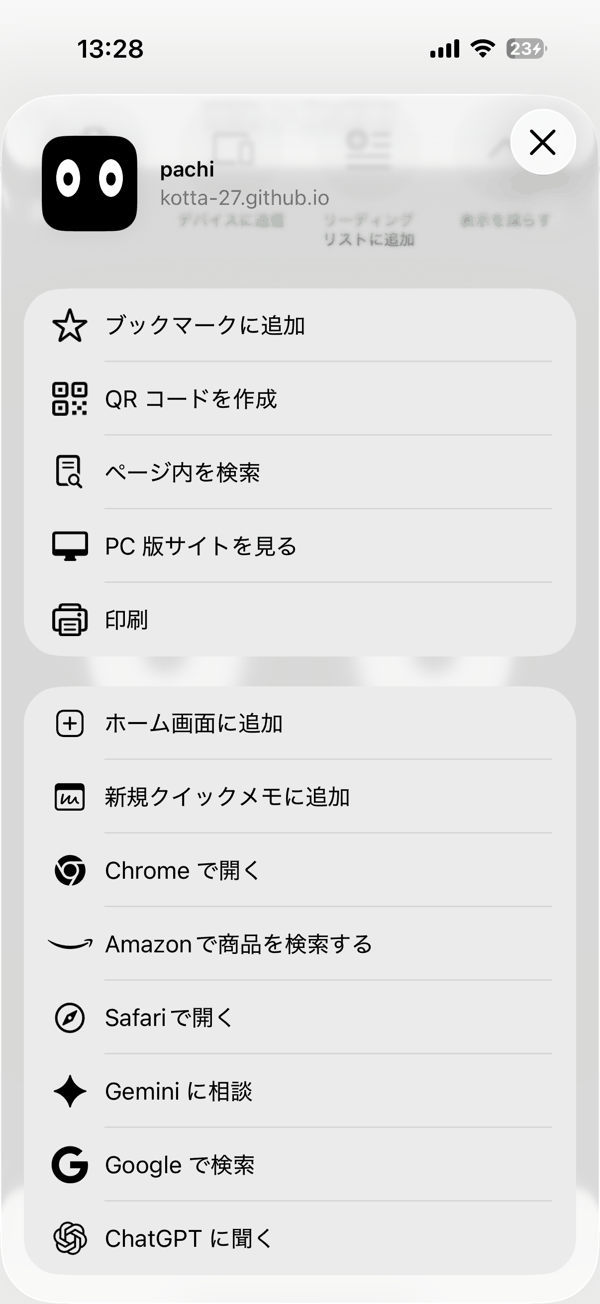
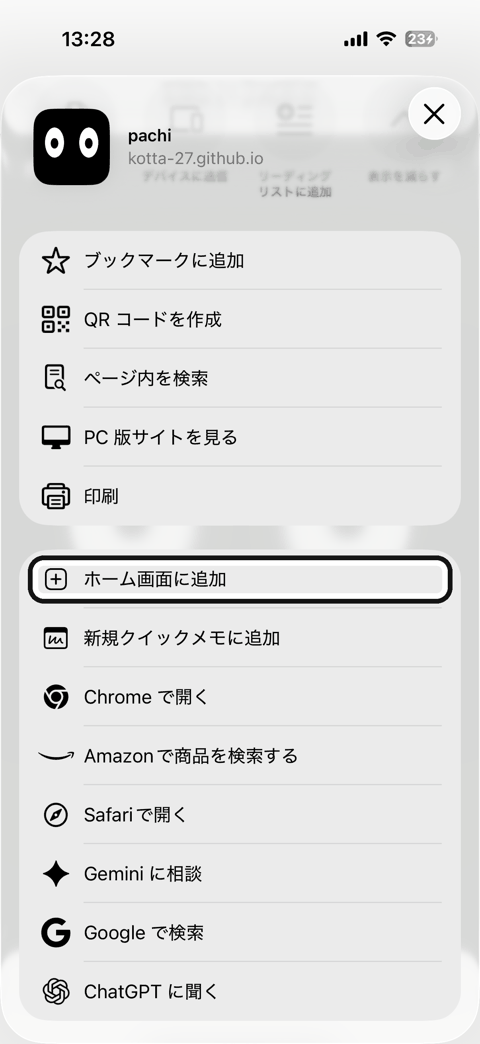
LP: ホーム画面に追加のスクショを小さく、押す箇所にマーカー

diff --git a/public/lp/index.html b/public/lp/index.html
@@ -109,11 +109,12 @@ nav ul a:hover { color: var(--fg); }
 .step p { margin: 0; color: var(--dim); font-size: 15px; }
 
 /* install */
-.install { display: grid; grid-template-columns: repeat(3, minmax(0, 1fr)); gap: 24px; list-style: none; margin: 0; padding: 0; }
-@media (max-width: 720px) { .install { grid-template-columns: 1fr; max-width: 360px; margin-inline: auto; } }
+.install { display: grid; grid-template-columns: repeat(3, 240px); justify-content: center; gap: 36px; list-style: none; margin: 0; padding: 0; }
+@media (max-width: 820px) { .install { grid-template-columns: repeat(3, minmax(0, 1fr)); gap: 16px; } }
+@media (max-width: 560px) { .install { grid-template-columns: 1fr; max-width: 260px; margin-inline: auto; } }
 .install li { display: flex; flex-direction: column; gap: 12px; }
 .install img { display: block; width: 100%; height: auto; border-radius: 22px; border: 1px solid var(--line); }
-.install span { display: flex; align-items: center; gap: 10px; font-size: 15px; }
+.install span { display: flex; align-items: center; gap: 10px; font-size: 14px; }
 .install b { font-family: var(--latin); font-weight: 800; width: 26px; height: 26px; border-radius: 50%; background: var(--fg); color: var(--bg); display: inline-flex; align-items: center; justify-content: center; font-size: 13px; flex: none; }
 
 /* gestures */
